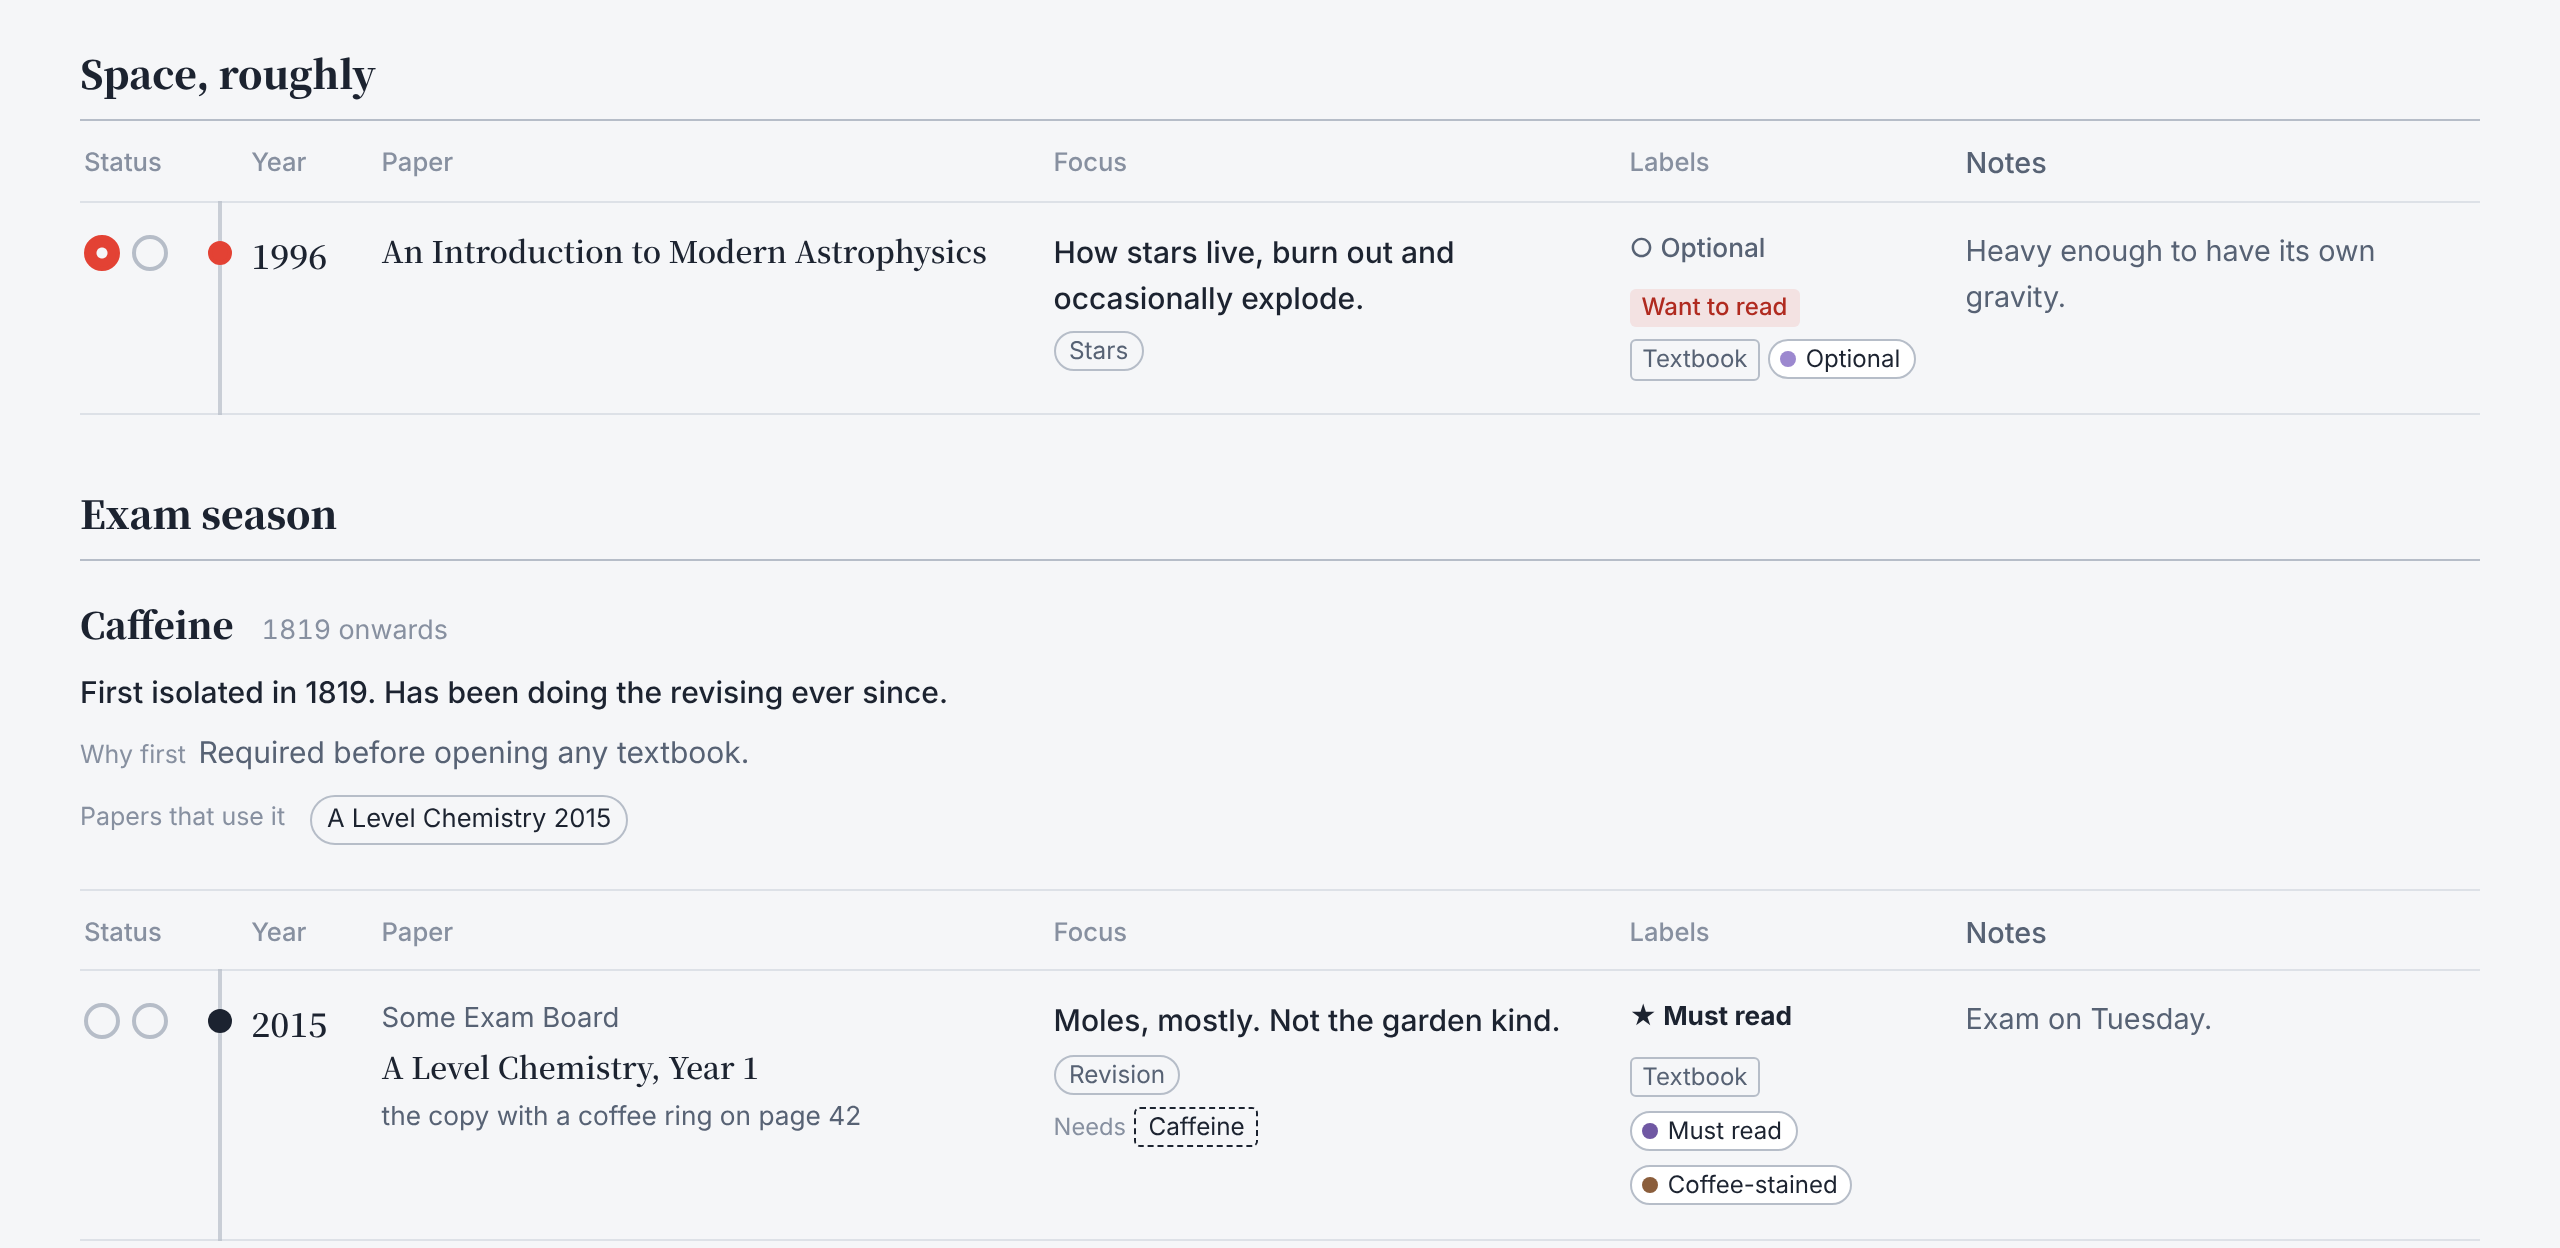
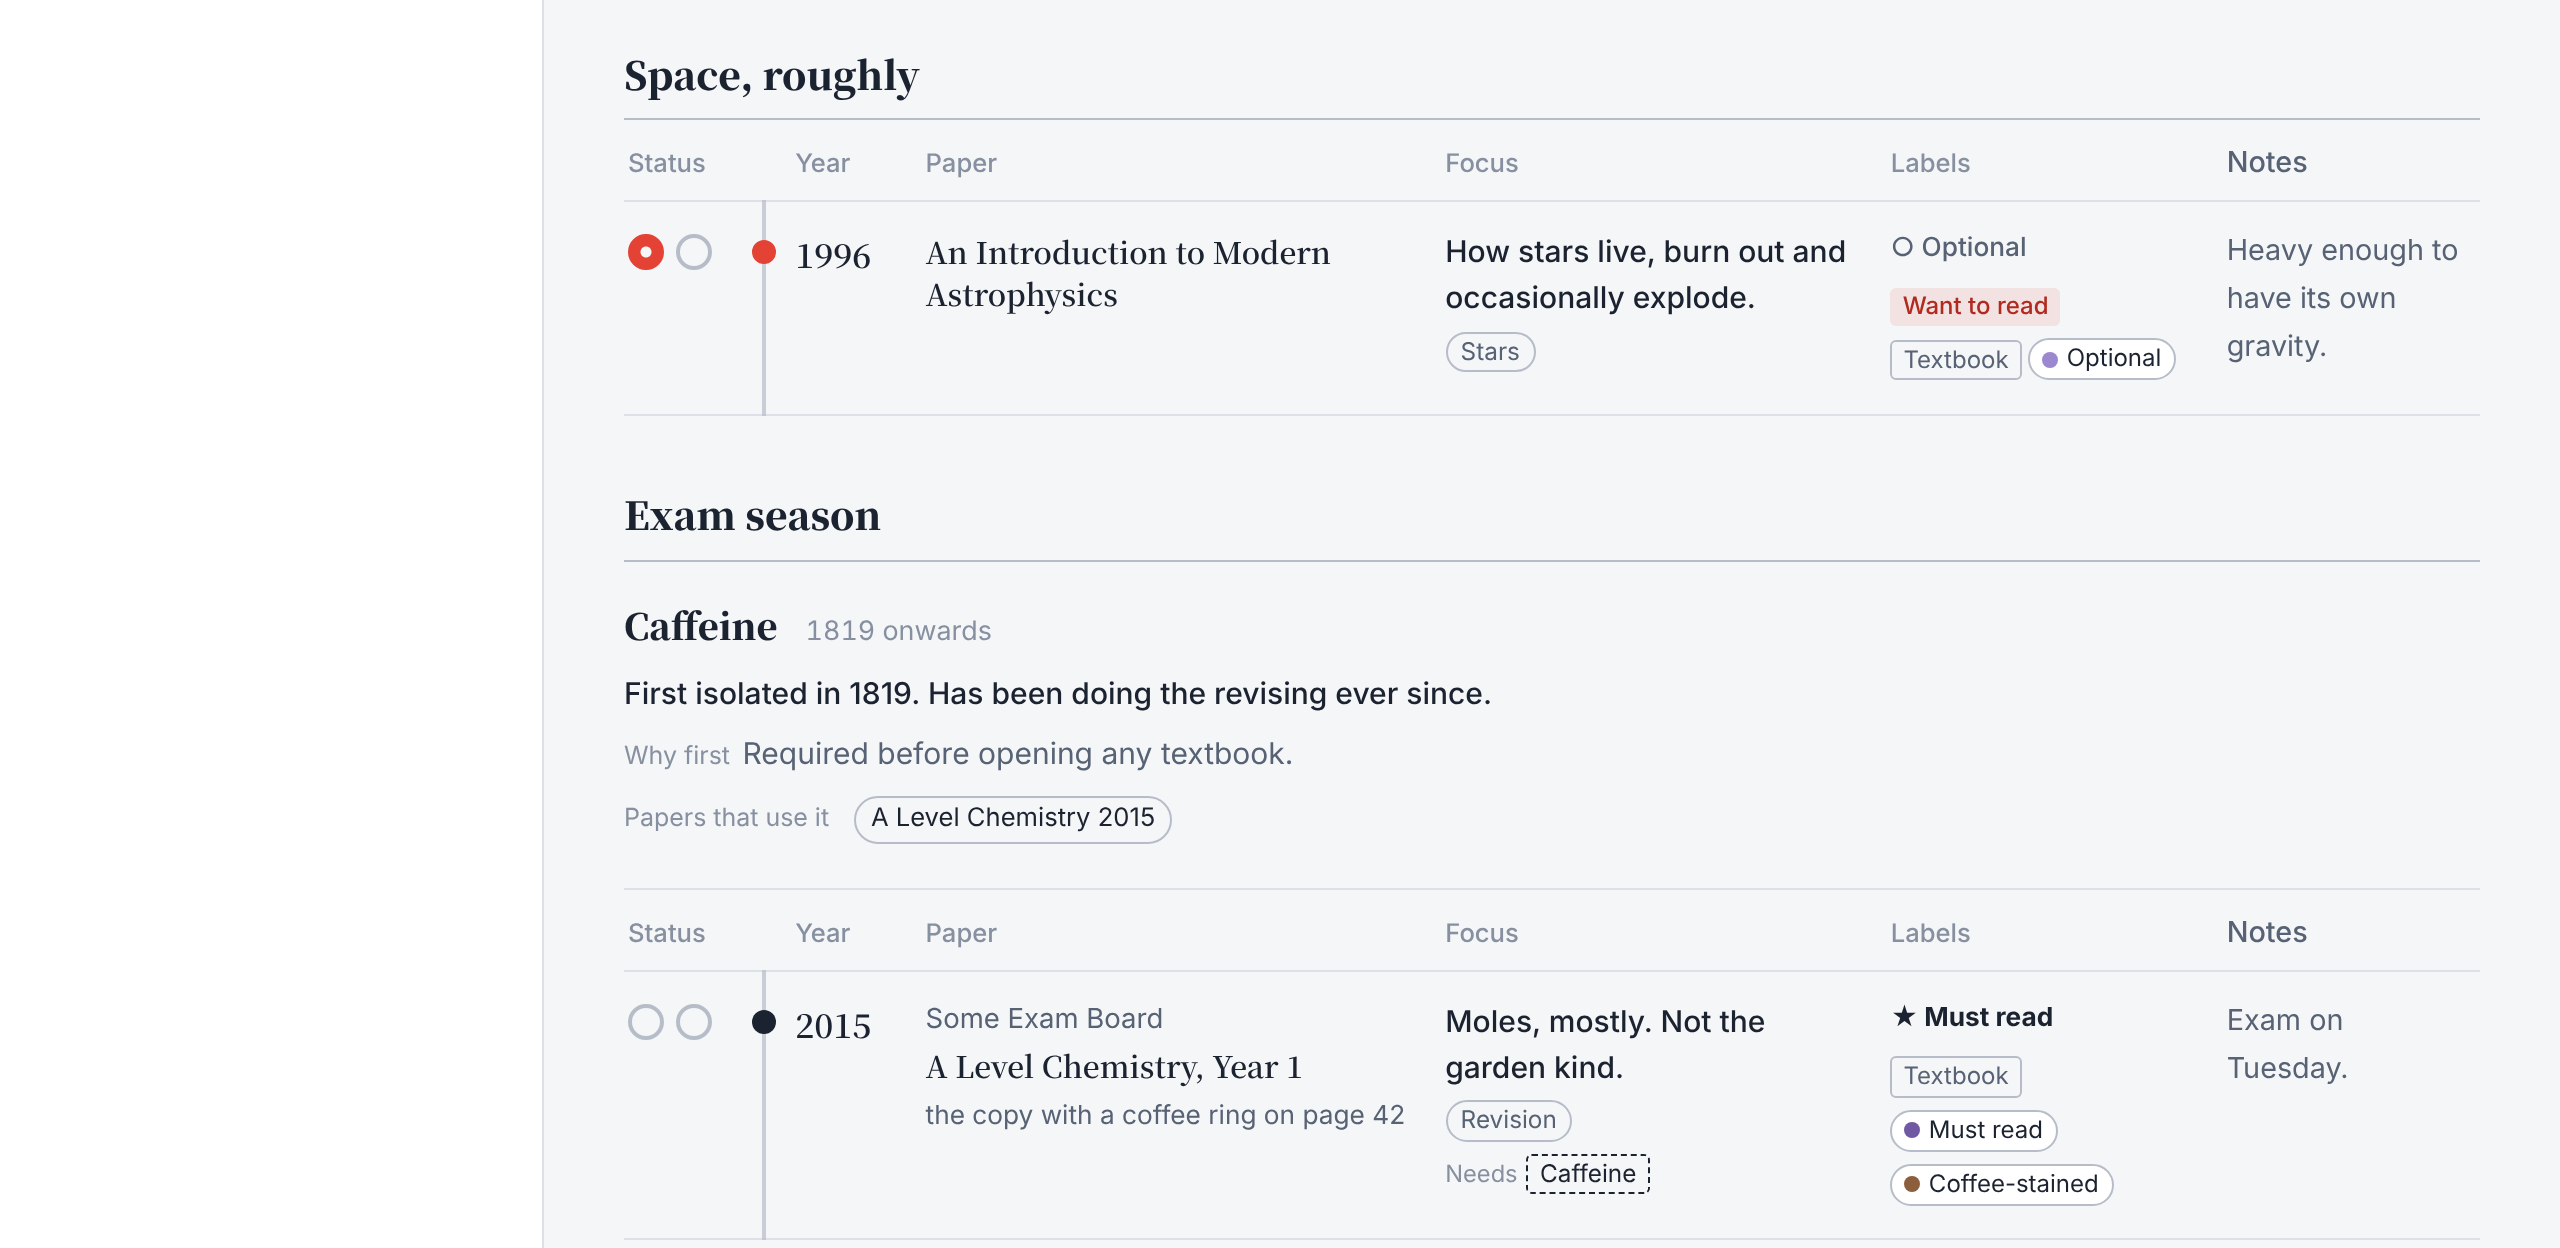
full update

diff --git a/index.html b/index.html
@@ -74,6 +74,11 @@ h1{font-family:var(--serif);font-weight:900;font-size:clamp(2.2rem,6.6vw,3.8rem)
 /* map toolbar */
 .map-tools{display:flex;flex-wrap:wrap;align-items:center;gap:8px 12px;margin:4px 0 10px}
 .zoom{display:inline-flex;flex-wrap:wrap;align-items:center;gap:6px}
+.zoom[hidden]{display:none}
+.years-toggle{font-variant-numeric:tabular-nums;display:inline-flex;align-items:center;gap:.5em}
+.years-toggle::after,.filter-toggle::after{content:'';width:5px;height:5px;border-right:1.5px solid currentColor;border-bottom:1.5px solid currentColor;transform:translateY(-2px) rotate(45deg);transition:transform .15s}
+.years-toggle[aria-expanded="true"]::after,.filter-toggle[aria-expanded="true"]::after{transform:translateY(1px) rotate(-135deg)}
+.filter-toggle{align-items:center;gap:.5em}
 .zoom .btn{min-width:2.2em;text-align:center}
 .range-label{font-size:.86rem;color:var(--muted);font-variant-numeric:tabular-nums;min-width:6.5em}
 .yr-in{width:4.6em;font:inherit;font-size:.88rem;padding:.28em .45em;border:1px solid var(--rule-strong);border-radius:4px;background:var(--surface);color:var(--ink)}
@@ -173,6 +178,14 @@ h1{font-family:var(--serif);font-weight:900;font-size:clamp(2.2rem,6.6vw,3.8rem)
 
 /* legends */
 .legend{display:flex;flex-wrap:wrap;gap:6px 20px;font-size:.88rem;color:var(--muted);margin:12px 0 0;padding:0}
+.map-key{margin:12px 0 0;font-size:.88rem;color:var(--muted)}
+.map-key > summary{cursor:pointer;width:max-content;list-style:none;display:inline-flex;align-items:center;gap:.45em;padding:2px 0;color:var(--muted)}
+.map-key > summary::-webkit-details-marker{display:none}
+.map-key > summary::before{content:'';width:0;height:0;border-left:5px solid currentColor;border-top:4px solid transparent;border-bottom:4px solid transparent;transition:transform .15s}
+.map-key[open] > summary::before{transform:rotate(90deg)}
+.map-key > summary:hover{color:var(--ink)}
+.map-key > summary:focus-visible{outline:2px solid var(--focus);outline-offset:3px;border-radius:3px}
+.map-key .map-hint{margin:12px 0 0}
 .legend span{display:inline-flex;align-items:center}
 .sw{display:inline-block;width:11px;height:11px;border-radius:50%;margin-right:.45em;flex:none}
 .sw.read{background:var(--green)} .sw.want{background:radial-gradient(circle,var(--bg) 0 2px,var(--red) 2.5px)}
@@ -221,7 +234,7 @@ button.tagchip[aria-pressed="true"]{border-color:var(--ink);font-weight:500}
 .edit-inner strong{font-weight:700;margin-right:6px}
 .edit-inner button{font-size:.84rem;background:transparent;border:1px solid currentColor;border-radius:4px;color:var(--bg);padding:.18em .7em;cursor:pointer}
 .edit-inner .sep{flex:1}
-.filter-toggle{display:none;flex:none;font-size:.88rem;padding:.32em .85em;border:1px solid var(--rule-strong);border-radius:4px;background:var(--surface);color:var(--ink);cursor:pointer;white-space:nowrap}
+.filter-toggle{display:inline-flex;flex:none;font-size:.88rem;padding:.32em .85em;border:1px solid var(--rule-strong);border-radius:4px;background:var(--surface);color:var(--ink);cursor:pointer;white-space:nowrap}
 
 /* table of contents (left drawer) */
 .toc{position:fixed;top:0;left:0;bottom:0;width:var(--toc-w);z-index:40;display:flex;flex-direction:column;background:var(--surface);border-right:1px solid var(--rule);padding-top:env(safe-area-inset-top,0px);padding-bottom:env(safe-area-inset-bottom,0px);transform:translateX(-100%);visibility:hidden;transition:transform .22s ease,visibility 0s linear .22s}
@@ -256,7 +269,8 @@ body.toc-open .toc{transform:none;visibility:visible;transition:transform .22s e
 .page{transition:margin-left .22s ease}
 @media (min-width:1000px){ body.toc-open .page{margin-left:var(--toc-w)} }
 @media (max-width:999px){ .toc{width:min(86vw,320px)} }
-.filters-row{border-top:1px solid var(--rule)}
+.filters-row{border-top:1px solid var(--rule);display:none}
+.filters-row.open{display:block}
 .controls-inner{display:flex;flex-wrap:wrap;align-items:center;gap:10px 14px;padding-top:10px;padding-bottom:10px}
 .search input,.sel select{font:inherit;font-size:.92rem;padding:.3em .55em;border:1px solid var(--rule-strong);border-radius:4px;background:var(--surface);color:var(--ink)}
 .search input{width:min(15rem,100%)}
@@ -513,13 +527,13 @@ textarea.backup{width:100%;min-height:220px;font-family:ui-monospace,Menlo,Conso
 
   <div class="map-tools">
     <button type="button" class="btn" id="btnLanes" aria-expanded="false" aria-controls="lanePicker">Topics on the map</button>
-    <div class="zoom" role="group" aria-label="Zoom the timeline">
+    <button type="button" class="btn years-toggle" id="btnZoom" aria-expanded="false" aria-controls="zoomTools">Years: all</button>
+    <div class="zoom" id="zoomTools" role="group" aria-label="Zoom the timeline" hidden>
       <button type="button" class="btn" data-zoom="out" aria-label="Zoom out">−</button>
       <button type="button" class="btn" data-zoom="in" aria-label="Zoom in">+</button>
       <button type="button" class="btn" data-zoom="left" aria-label="Earlier">‹</button>
       <button type="button" class="btn" data-zoom="right" aria-label="Later">›</button>
       <button type="button" class="btn" data-zoom="reset">All years</button>
-      <span class="range-label" id="rangeLabel" aria-live="polite">All years</span>
       <label class="sr" for="y0">From year</label><input class="yr-in" id="y0" type="number" inputmode="numeric" placeholder="From">
       <label class="sr" for="y1">To year</label><input class="yr-in" id="y1" type="number" inputmode="numeric" placeholder="To">
       <button type="button" class="btn" id="btnRange">Show range</button>
@@ -533,25 +547,28 @@ textarea.backup{width:100%;min-height:220px;font-family:ui-monospace,Menlo,Conso
       <svg class="net" id="net" aria-label="Papers by topic and year, with the lines between them"></svg>
     </div>
   </div>
-  <p class="map-hint">Drag along the year axis to zoom into a period, double-click the map to zoom in on a point, and drag sideways to pan once zoomed in. Pinch or Ctrl + scroll also zooms. Over long spans the axis gives busy decades more room and sparse years less; once you zoom in, it is even.</p>
 
   <div class="info" id="info" aria-live="polite"></div>
 
-  <p class="legend">
-    <span><i class="sw read"></i>Read</span>
-    <span><i class="sw want"></i>Want to read</span>
-    <span><i class="sw none"></i>Unmarked</span>
-    <span><i class="sz p3"></i>★ Must read</span>
-    <span><i class="sz p2"></i>○ Optional</span>
-    <span><i class="sz p1"></i>· Background</span>
-  </p>
-  <p class="legend">
-    <span><svg class="lsw" width="28" height="8" aria-hidden="true"><line x1="1" y1="4" x2="27" y2="4"></line></svg>Builds on</span>
-    <span><svg class="lsw c" width="28" height="8" aria-hidden="true"><line x1="1" y1="4" x2="27" y2="4"></line></svg>Responds to</span>
-    <span><i class="cdot-sw"></i>Square: a concept you created</span>
-    <span><svg class="lsw p" width="28" height="8" aria-hidden="true"><line x1="1" y1="4" x2="27" y2="4"></line></svg>When selected: prerequisite concepts</span>
-  </p>
-  <p class="legend" id="srcLegend" hidden></p>
+  <details class="map-key" id="mapKey">
+    <summary>Legend and map tips</summary>
+    <p class="legend">
+      <span><i class="sw read"></i>Read</span>
+      <span><i class="sw want"></i>Want to read</span>
+      <span><i class="sw none"></i>Unmarked</span>
+      <span><i class="sz p3"></i>★ Must read</span>
+      <span><i class="sz p2"></i>○ Optional</span>
+      <span><i class="sz p1"></i>· Background</span>
+    </p>
+    <p class="legend">
+      <span><svg class="lsw" width="28" height="8" aria-hidden="true"><line x1="1" y1="4" x2="27" y2="4"></line></svg>Builds on</span>
+      <span><svg class="lsw c" width="28" height="8" aria-hidden="true"><line x1="1" y1="4" x2="27" y2="4"></line></svg>Responds to</span>
+      <span><i class="cdot-sw"></i>Square: a concept you created</span>
+      <span><svg class="lsw p" width="28" height="8" aria-hidden="true"><line x1="1" y1="4" x2="27" y2="4"></line></svg>When selected: prerequisite concepts</span>
+    </p>
+    <p class="legend" id="srcLegend" hidden></p>
+    <p class="map-hint">Drag along the year axis to zoom into a period, double-click the map to zoom in on a point, and drag sideways to pan once zoomed in. Pinch or Ctrl + scroll also zooms. Over long spans the axis gives busy decades more room and sparse years less; once you zoom in, it is even.</p>
+  </details>
 </header>
 
 <main id="main" class="wrap"></main>
@@ -1438,7 +1455,7 @@ function applyFocus(id){
 }
 function updateRangeUI(){
   const r = settings.range;
-  document.getElementById('rangeLabel').textContent = r ? Math.round(r[0]) + '–' + Math.round(r[1]) : 'All years';
+  document.getElementById('btnZoom').textContent = 'Years: ' + (r ? Math.round(r[0]) + '–' + Math.round(r[1]) : 'all');
 }
 function setRange(a, b){
   const full = MAP.full;
@@ -1507,6 +1524,8 @@ function infoHTML(id){
       '<p class="info-t">' + esc(e.t) + '</p>' +
       (e.what ? '<p class="info-f">' + esc(e.what) + '</p>' : '') + (e.why ? '<p class="info-note">' + esc(e.why) + '</p>' : '') +
       group('Prerequisites', IDX.cUp[e.id] || []) + group('Next', IDX.cDown[e.id] || []) + group('Papers that use it', users) +
+      relGroup('Builds on', (IDX.up[e.id] || []).filter(x => x[1] === 'b')) + relGroup('Responds to', (IDX.up[e.id] || []).filter(x => x[1] === 'c')) +
+      relGroup('Built on by', (IDX.down[e.id] || []).filter(x => x[1] === 'b')) + relGroup('Challenged by', (IDX.down[e.id] || []).filter(x => x[1] === 'c')) +
       '<p class="info-actions"><button type="button" class="linkbtn" data-card="' + e.id + '">Readings</button><button type="button" class="linkbtn" data-clear-sel="1">Clear selection</button></p></div></div>';
   }
   const up = IDX.up[id] || [], down = IDX.down[id] || [];
@@ -2580,12 +2599,16 @@ document.querySelectorAll('[data-prio]').forEach(b => b.addEventListener('click'
 document.getElementById('stSel').addEventListener('change', ev => { ui.st = ev.target.value; rerenderAfterFilter(); });
 document.getElementById('src').addEventListener('change', ev => { ui.tag = ev.target.value; rerenderAfterFilter(); });
 document.getElementById('dom').addEventListener('change', ev => { ui.dom = ev.target.value; rerenderAfterFilter(); });
-document.getElementById('filterToggle').addEventListener('click', () => {
-  const row = document.getElementById('filters');
-  const open = !row.classList.contains('open');
-  row.classList.toggle('open', open);
+function setFiltersOpen(open){
+  document.getElementById('filters').classList.toggle('open', open);
   document.getElementById('filterToggle').setAttribute('aria-expanded', String(open));
   updateFilterToggle(); setBarH();
+}
+document.getElementById('filterToggle').addEventListener('click', () => {
+  const open = !document.getElementById('filters').classList.contains('open');
+  setFiltersOpen(open);
+  settings.filtersOpen = open ? 'open' : null; persistSettings({remote:false});
+  if(open) setTimeout(() => document.getElementById('q').focus(), 0);
 });
 window.addEventListener('hashchange', () => {
   const v = resolveView(location.hash.slice(1));
@@ -2620,6 +2643,14 @@ const initView = resolveView(location.hash.slice(1) || pv.view || '');
 ui.topic = initView.topic; ui.sub = initView.sub;
 renderAll();
 if(pv.select && lib.entries[pv.select]) select(pv.select);
+const zoomTools = document.getElementById('zoomTools'), btnZoom = document.getElementById('btnZoom');
+function setZoomOpen(open){ zoomTools.hidden = !open; btnZoom.setAttribute('aria-expanded', String(open)); }
+setZoomOpen(settings.zoomOpen === 'open');
+btnZoom.addEventListener('click', () => { const open = zoomTools.hidden; setZoomOpen(open); settings.zoomOpen = open ? 'open' : null; persistSettings({remote:false}); });
+if(settings.filtersOpen === 'open') setFiltersOpen(true);
+const mapKey = document.getElementById('mapKey');
+mapKey.open = settings.mapKey === 'open';
+mapKey.addEventListener('toggle', () => { settings.mapKey = mapKey.open ? 'open' : null; persistSettings({remote:false}); });
 setToc(isWide() && settings.toc !== 'closed', false);
 updateSaveState();
 setBarH();
